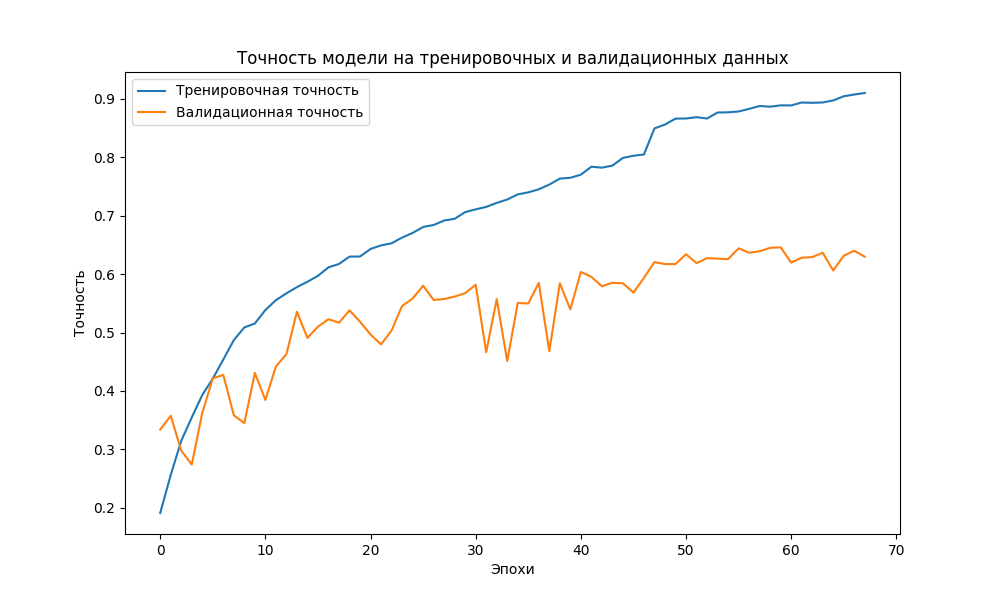
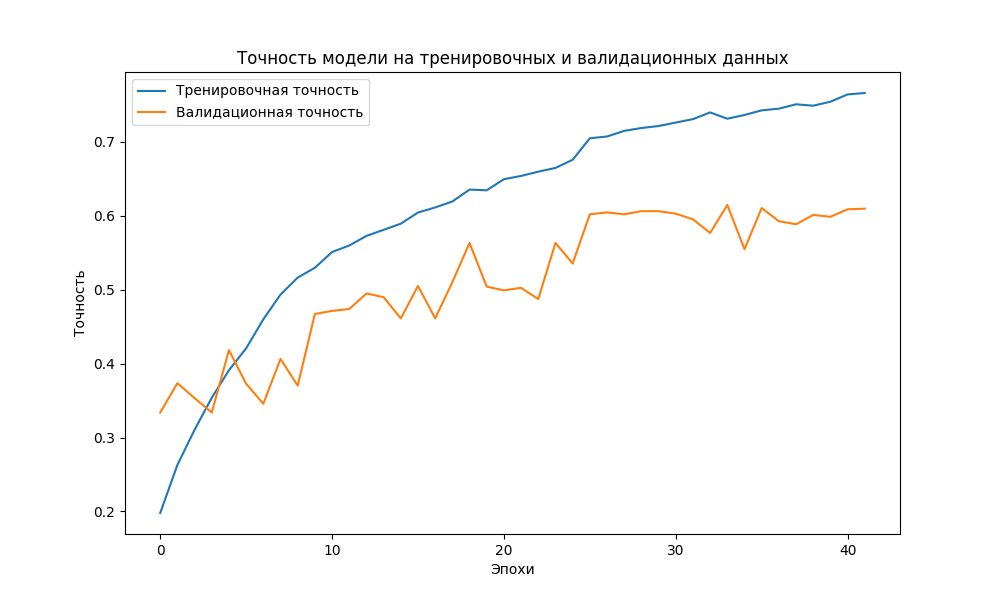
phase-0/measure-foundation

diff --git a/model_training.py b/model_training.py
@@ -1,9 +1,12 @@
+import csv
+import json
 import sys
 from datetime import datetime
 
 import numpy as np
 from sklearn.utils import compute_class_weight
 import tensorflow as tf
+import keras
 from keras import models, layers, regularizers, optimizers, losses
 from keras.callbacks import EarlyStopping, ReduceLROnPlateau, ModelCheckpoint
 
@@ -12,6 +15,12 @@ from graphs_and_report import build_accuracy_graph, build_confusion_matrix, buil
 from prepare_data.data_generator import DataGenerator
 
 tf.config.optimizer.set_experimental_options({'layout_optimizer': False})
+
+# Единый seed на python / numpy / tf: убирает часть разброса между прогонами.
+# Полный op-determinism (enable_op_determinism) намеренно не включаем — он заметно
+# замедляет обучение и падает на части GPU-ядер.
+SEED = 42
+keras.utils.set_random_seed(SEED)
 
 
 class Tee:
@@ -48,7 +57,8 @@ class Tee:
 
 LOG_DIR = config.RESULTS_DIR / "logs"
 LOG_DIR.mkdir(parents=True, exist_ok=True)
-log_path = LOG_DIR / f"train_{datetime.now():%Y%m%d_%H%M%S}.log"
+RUN_TS = f"{datetime.now():%Y%m%d_%H%M%S}"
+log_path = LOG_DIR / f"train_{RUN_TS}.log"
 log_file = open(log_path, "w", encoding="utf-8")
 
 sys.stdout = Tee(sys.stdout, log_file)
@@ -248,8 +258,10 @@ y_test = np.load(config.OUTPUT_DIR / 'y_test.npy', mmap_mode='r')
 print(f"Размер предсказаний (y_pred): {y_pred.shape}")
 print(f"Размер истинных меток (y_test): {y_test.shape}")
 
+groups_test_path = config.OUTPUT_DIR / 'groups_test.npy'
+groups_test = np.load(groups_test_path) if groups_test_path.exists() else None
 
-build_report(y_test, y_pred)
+metrics = build_report(y_test, y_pred, groups=groups_test)
 
 # Матрица ошибок (confusion matrix)
 build_confusion_matrix(y_test, y_pred)
@@ -259,3 +271,22 @@ build_accuracy_graph(history)
 
 # График потерь
 build_loss_graph(history)
+
+# Дамп истории обучения + строка в общий журнал прогонов (для сравнения фаз)
+with open(LOG_DIR / f"history_{RUN_TS}.json", "w", encoding="utf-8") as f:
+    json.dump({k: [float(v) for v in vals] for k, vals in history.history.items()}, f, indent=2)
+
+runs_csv = config.RESULTS_DIR / "runs.csv"
+write_header = not runs_csv.exists()
+with open(runs_csv, "a", newline="", encoding="utf-8") as f:
+    writer = csv.writer(f)
+    if write_header:
+        writer.writerow(["timestamp", "accuracy", "weighted_f1", "macro_f1", "epochs", "notes"])
+    writer.writerow([
+        RUN_TS,
+        f"{metrics['accuracy']:.4f}",
+        f"{metrics['weighted_f1']:.4f}",
+        f"{metrics['macro_f1']:.4f}",
+        len(history.history.get("loss", [])),
+        "",
+    ])

diff --git a/graphs_and_report.py b/graphs_and_report.py
@@ -1,5 +1,6 @@
 from pathlib import Path
 
+import numpy as np
 from sklearn.metrics import accuracy_score, classification_report, confusion_matrix, f1_score
 import matplotlib.pyplot as plt
 import seaborn as sns
@@ -7,13 +8,32 @@ import seaborn as sns
 import config
 
 
-def build_report(y_test, y_pred):
+def build_report(y_test, y_pred, groups=None):
+    y_test = np.asarray(y_test)
+    y_pred = np.asarray(y_pred)
+
     accuracy = accuracy_score(y_test, y_pred)
-    f1 = f1_score(y_test, y_pred, average='weighted')   
+    weighted_f1 = f1_score(y_test, y_pred, average='weighted', zero_division=0)
+    macro_f1 = f1_score(y_test, y_pred, average='macro', zero_division=0)
+
     print(f"Точность модели на тестовых данных: {accuracy:.4f}")
-    print(f"F1-метрика: {f1:.4f}")
+    print(f"F1-метрика (weighted): {weighted_f1:.4f}")
+    print(f"F1-метрика (macro): {macro_f1:.4f}")
     print("Полный отчет классификации:")
     print(classification_report(y_test, y_pred, target_names=config.EMOTIONS.values(), zero_division=0))
+
+    if groups is not None:
+        groups = np.asarray(groups)
+        print("Метрики по корпусам:")
+        for group in np.unique(groups):
+            mask = groups == group
+            g_acc = accuracy_score(y_test[mask], y_pred[mask])
+            g_wf1 = f1_score(y_test[mask], y_pred[mask], average='weighted', zero_division=0)
+            g_mf1 = f1_score(y_test[mask], y_pred[mask], average='macro', zero_division=0)
+            print(f"  {str(group):<10} n={int(mask.sum()):<5} "
+                  f"acc={g_acc:.4f}  f1_weighted={g_wf1:.4f}  f1_macro={g_mf1:.4f}")
+
+    return {"accuracy": accuracy, "weighted_f1": weighted_f1, "macro_f1": macro_f1}
     
 
 def build_confusion_matrix(y_test, y_pred, output_dir: Path = config.RESULTS_DIR):

diff --git a/prepare_data/writing.py b/prepare_data/writing.py
@@ -35,6 +35,13 @@ def save_dataset(X: np.ndarray, y: np.ndarray, type_dataset: DatasetType) -> Non
         append_data_into_file(y_path, y)
 
 
+def save_groups(count: int, type_dataset: DatasetType, group: str) -> None:
+    """Метка корпуса на каждую строку сплита — для per-corpus метрик на тесте."""
+    if count > 0:
+        groups = np.full(count, group, dtype="<U16")
+        append_data_into_file(config.OUTPUT_DIR / f"groups_{type_dataset}.npy", groups)
+
+
 def process_one_file(
     pipeline: MediaPipeline,
     emotion_label: int,
@@ -84,10 +91,13 @@ def process_with_batching(
     type_dataset: DatasetType,
     augment: bool = False,
     batch_size: int = config.BATCH_SIZE,
+    group: str | None = None,
 ) -> None:
     print(f"Потоковая запись и сохранение {type_dataset} данных...")
     for X_batch, y_batch in process_in_batches(corpus, pipeline, files, augment=augment, batch_size=batch_size):
         save_dataset(X_batch, y_batch, type_dataset=type_dataset)
+        if group is not None:
+            save_groups(len(X_batch), type_dataset=type_dataset, group=group)
 
 
 def check_and_create_empty_files() -> None:
@@ -103,7 +113,10 @@ def check_and_create_empty_files() -> None:
     for ds_type in ('val', 'test'):
         x_file = config.OUTPUT_DIR / f"X_{ds_type}.npy"
         y_file = config.OUTPUT_DIR / f"y_{ds_type}.npy"
+        groups_file = config.OUTPUT_DIR / f"groups_{ds_type}.npy"
 
         if not x_file.exists():
             np.save(x_file, np.empty((0, *feature_shape), dtype=np.float32))
             np.save(y_file, np.empty((0,), dtype=np.float32))
+        if not groups_file.exists():
+            np.save(groups_file, np.empty((0,), dtype="<U16"))

diff --git a/prepare_data/runner.py b/prepare_data/runner.py
@@ -72,9 +72,9 @@ def process_corpora(
             limit_per_corpus=limit_per_corpus,
         )
 
-        process_with_batching(corpus, pipeline, train_files, "train", augment=True)
-        process_with_batching(corpus, pipeline, val_files, "val")
-        process_with_batching(corpus, pipeline, test_files, "test")
+        process_with_batching(corpus, pipeline, train_files, "train", augment=True, group=name)
+        process_with_batching(corpus, pipeline, val_files, "val", group=name)
+        process_with_batching(corpus, pipeline, test_files, "test", group=name)
 
         gc.collect()
 
